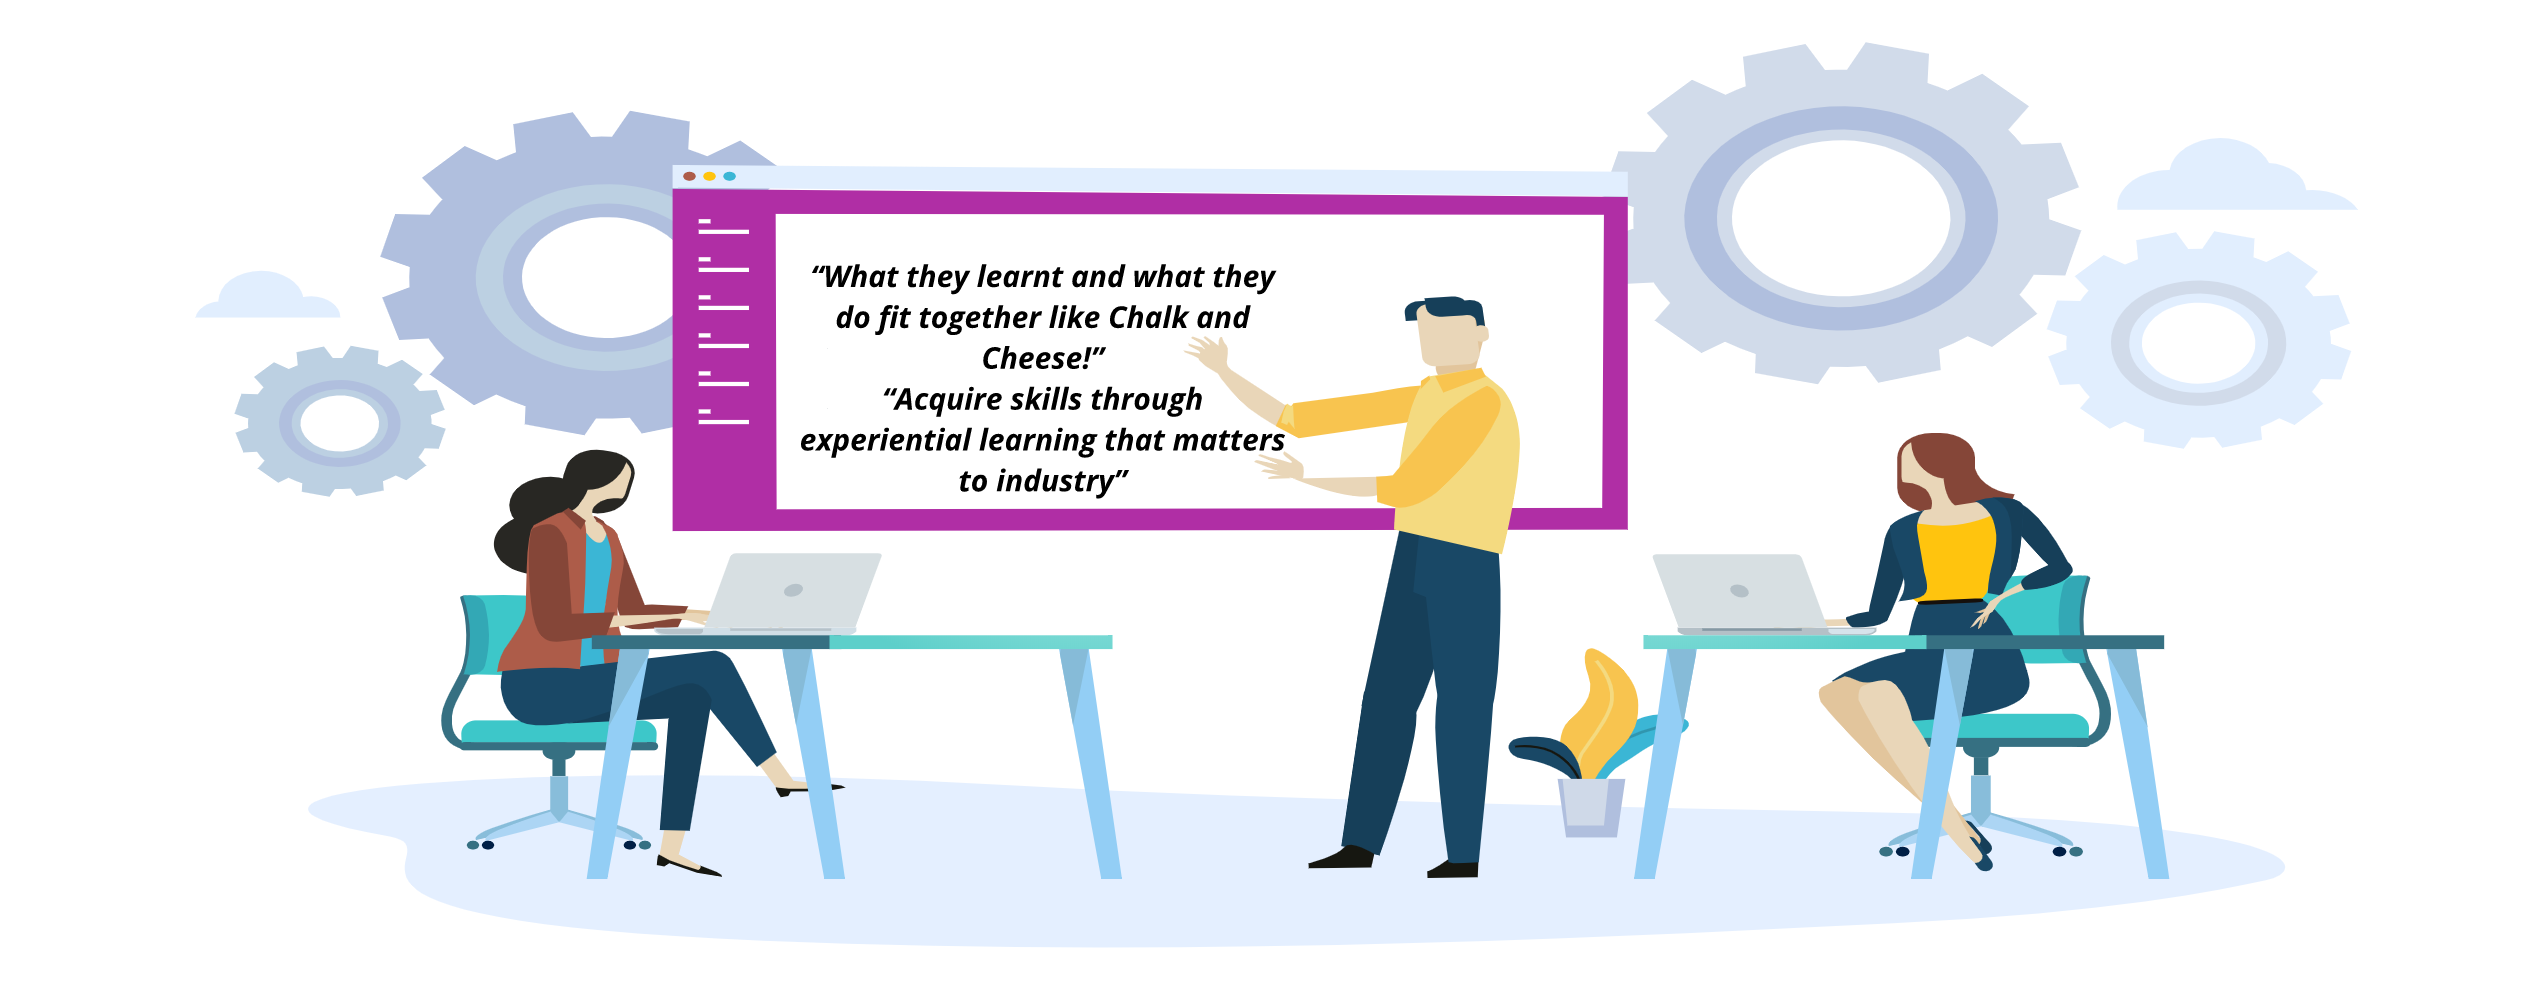
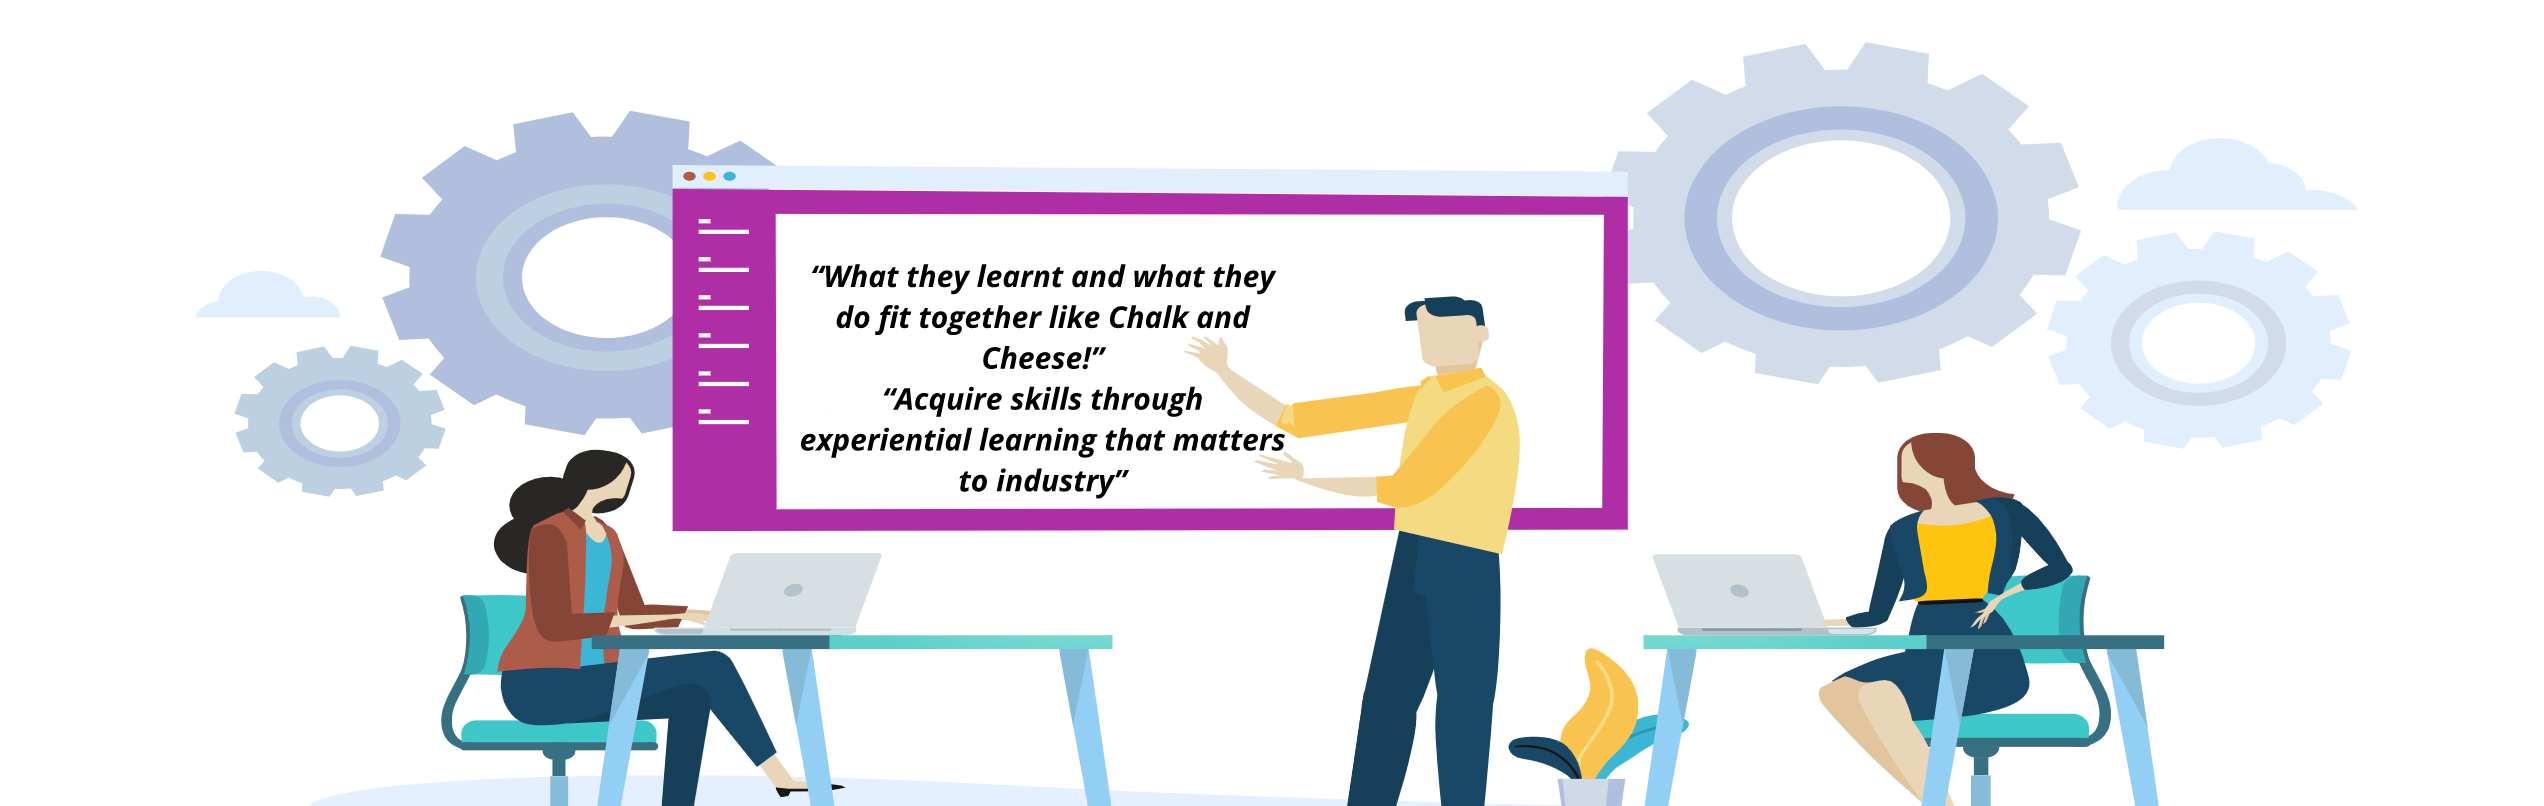
image height change

diff --git a/index.html b/index.html
@@ -70,7 +70,7 @@
   
    
   <!-- HOME MAIN SLIDER -->
-  <section class="home-slide">
+  <section class="home-slide" style="height: auto;">
       <ul class="slides">
         
         <!-- SLIDER 1 -->
